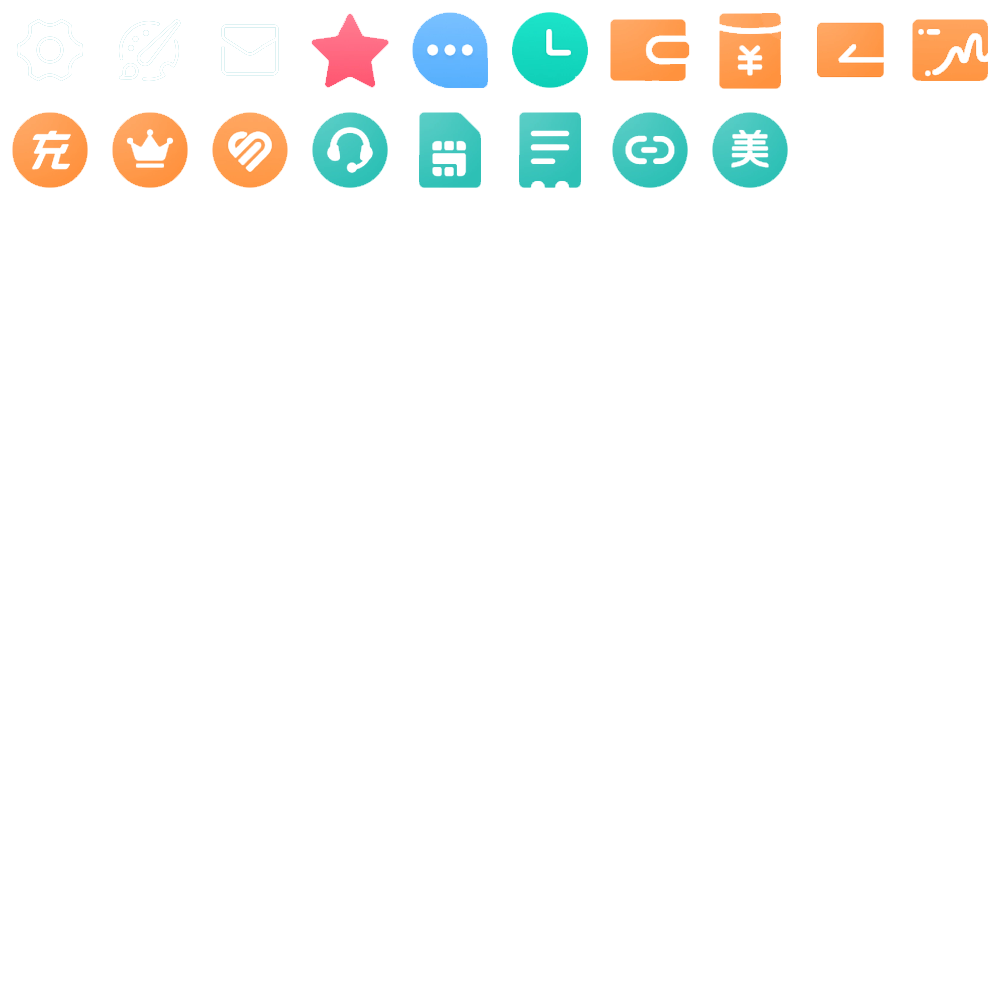
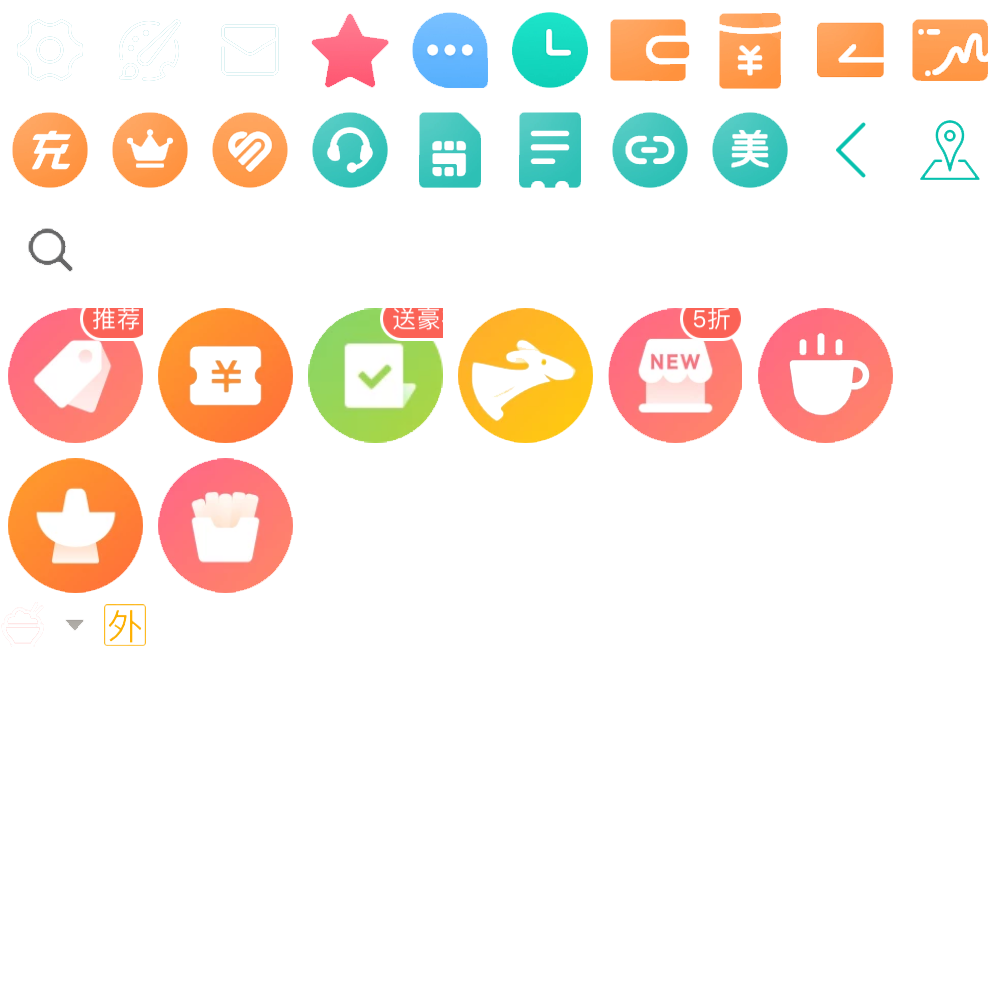
美食-头部及分类

diff --git a/src/components/Food.vue b/src/components/Food.vue
@@ -1,0 +1,189 @@
+<template>
+	<div class="food-page">
+		<!-- 顶部搜索区 -->
+        <div class="index-topsearch">
+
+            <!-- 左侧地址区 -->
+            <div class="index-leftaddr">
+                <h3></h3>
+            </div>
+
+            <!-- 搜索部分 -->
+            <div class="index-search">
+                <input type="search" name="search" placeholder="输入商家名、品类或商圈">
+            </div>
+
+            <!-- 右侧下啦菜单 -->
+            <div class="index-rightdrapdown">
+                <h3></h3>
+            </div>
+        </div>
+        <!-- 顶部搜索区 -->
+
+        <!-- 轮播图 -->
+        <div class="index-banner">
+            <div class="index-bannerimg">
+                <a href="#"><img src="../assets/food_img01.jpg" alt="banner"></a>
+                <a href="#"><img src="../assets/food_img01.jpg" alt="banner"></a>
+                <a href="#"><img src="../assets/food_img01.jpg" alt="banner"></a>
+            </div>
+            <div class="index-bannernum">
+                <a href="#"></a>
+                <a class="index-bannernum-active" href="#"></a>
+                <a href="#"></a>
+            </div>
+        </div>
+        <!-- 轮播图 -->
+
+        <!-- 分类 -->
+        <div class="index-clsmain">
+            <a href="#"><span class="icon icon-disc"></span>优惠团购</a>
+            <a href="#"><span class="icon icon-near"></span>附近好券</a>
+            <a href="#"><span class="icon icon-rese"></span>预约订座</a>
+            <a href="#"><span class="icon icon-take"></span>外卖</a>
+            <a href="#"><span class="icon icon-new"></span>新店特惠</a>
+            <a href="#"><span class="icon icon-tea"></span>下午茶</a>
+            <a href="#"><span class="icon icon-pot"></span>火锅</a>
+            <a href="#"><span class="icon icon-snack"></span>小吃快餐</a>
+        </div>
+	</div>
+</template>
+
+<script>
+	
+</script>
+
+<style scoped>
+	/*顶部搜索*/
+    .index-topsearch {
+        padding: 0.22rem 1.55rem 0.22rem 1.56rem;
+        border-bottom: 0.02rem solid #e5e5e5;
+    }
+    .index-leftaddr {
+        position: absolute;
+        top: 0;
+        left: 0;
+    }
+    .index-leftaddr h3 {
+        font-size: 14px;
+        color: #666666;
+        width: 1rem;
+        height: 1rem;
+        background: url("../assets/icon.png") no-repeat;
+        background-size: 10rem 10rem;
+        background-position: -8rem -1rem;
+        margin: .16rem 0 0 .36rem;
+    }
+    .index-search {
+    }
+    .index-search input {
+        display: block;
+        width: 100%;
+        border: 0;
+        background: #f4f4f4 url("../assets/icon_search_bg.jpg") no-repeat 2.18rem center;
+        background-size: 0.42rem 0.42rem; 
+        color: #666666;
+        text-indent: 2.76rem;
+        font-size: 0.42rem;
+        height: 0.88rem;
+        line-height: 0.88rem;
+        -webkit-border-radius: 0.88rem;
+        -moz-border-radius: 0.88rem;
+        border-radius: 0.88rem;
+        outline: none;
+    }
+    .index-rightdrapdown {
+        position: absolute;
+        top: 0;
+        right: 0;
+    }
+    .index-rightdrapdown h3 {
+        width: 1rem;
+        height: 1rem;
+        color: #666666;
+        line-height: 1.32rem;
+        background: url("../assets/icon.png") no-repeat -9rem -1rem;
+        background-size: 10rem 10rem;
+        margin: .18rem .18rem 0 0;
+    }
+    /*顶部搜索*/
+
+	/*轮播图*/
+    .index-banner {
+        width: 100%;
+        height: 3.3rem;
+        overflow: hidden;
+        position: relative;
+    }
+    .index-bannerimg {
+        overflow: hidden;
+        width: 1000%;
+        position: absolute;
+        top: 0;
+        left: 0;
+    }
+    .index-bannerimg a {
+        width: 10%;
+        display: block;
+        float: left;
+    }
+    .index-bannerimg img {
+        display: block;
+        width: 100%;
+    }
+    .index-bannernum {
+        position: absolute;
+        bottom: 0.16rem;
+        left: 0;
+        width: 100%;
+        height: 0.2rem;
+        font-size: 0;
+        text-align: center;
+    }
+    .index-bannernum a {
+        display: inline-block;
+        width: 0.2rem;
+        height: 0.2rem;
+        background: #e1d2d3;
+        -webkit-border-radius: 50%;
+        -moz-border-radius: 50%;
+        border-radius: 50%;
+        margin: 0 0.24rem;
+    }
+    .index-bannernum .index-bannernum-active {
+        background: #57beae;
+    }
+    /*轮播图*/
+
+    /*主分类*/
+    .index-clsmain {
+        overflow: hidden;
+        margin: .45rem 0 0;
+        border-bottom: 0.3rem solid #f4f4f4;
+    }
+    .index-clsmain a {
+    	float: left;
+    	width: 25%;
+    	font-size: .34rem;
+    	text-align: center;
+        color: #666666;
+        margin: 0 0 .53rem;
+    }
+    .icon {
+        display: block;
+        width: 1.5rem;
+        height: 1.5rem;
+        background: url("../assets/icon.png") no-repeat;
+        background-size: 10rem 10rem;
+        margin: 0 auto .1rem;
+    }
+
+    .icon-disc { background-position: 0 -3rem; }
+	.icon-near { background-position: -1.5rem -3rem; }
+	.icon-rese { background-position: -3rem -3rem; }
+	.icon-take { background-position: -4.5rem -3rem; }
+	.icon-new { background-position: -6rem -3rem; }
+	.icon-tea { background-position: -7.5rem -3rem; }
+	.icon-pot { background-position: 0 -4.5rem; }
+	.icon-snack { background-position: -1.5rem -4.5rem; }
+</style>

diff --git a/src/components/Index.vue b/src/components/Index.vue
@@ -39,7 +39,7 @@
         <div class="index-cls">
             <!-- 主分类 -->
             <div class="index-clsmain">
-                <a href="#">美食</a>
+                <a href="#" @click="go('/food')">美食</a>
                 <a class="icon-dy" href="#">电影/演出</a>
                 <a class="icon-jd" href="#">酒店住宿</a>
                 <a class="icon-yl" href="#">休闲娱乐</a>
@@ -257,6 +257,7 @@ export default {
         width: 100%;
         height: 0.2rem;
         font-size: 0;
+        text-align: center;
     }
     .index-bannernum a {
         display: inline-block;

diff --git a/src/router/index.js b/src/router/index.js
@@ -6,6 +6,7 @@ import Nearby from '@/components/Nearby'
 import Find from '@/components/Find'
 import Order from '@/components/Order'
 import Me from '@/components/Me'
+import Food from '@/components/Food'
 
 Vue.use(Router)
 
@@ -35,6 +36,10 @@ export default new Router({
 	    	path: '/me',
 	      	name: 'Me',
 	      	component: Me
+	    },{
+	    	path: '/food',
+	      	name: 'Food',
+	      	component: Food
 	    }
   	]
 })

diff --git a/src/components/Find.vue b/src/components/Find.vue
@@ -104,7 +104,7 @@ export default {
 }
 </script>
 
-<style>
+<style scoped>
 	/*顶部标题*/
 	.head {}
 	.head h1 {
